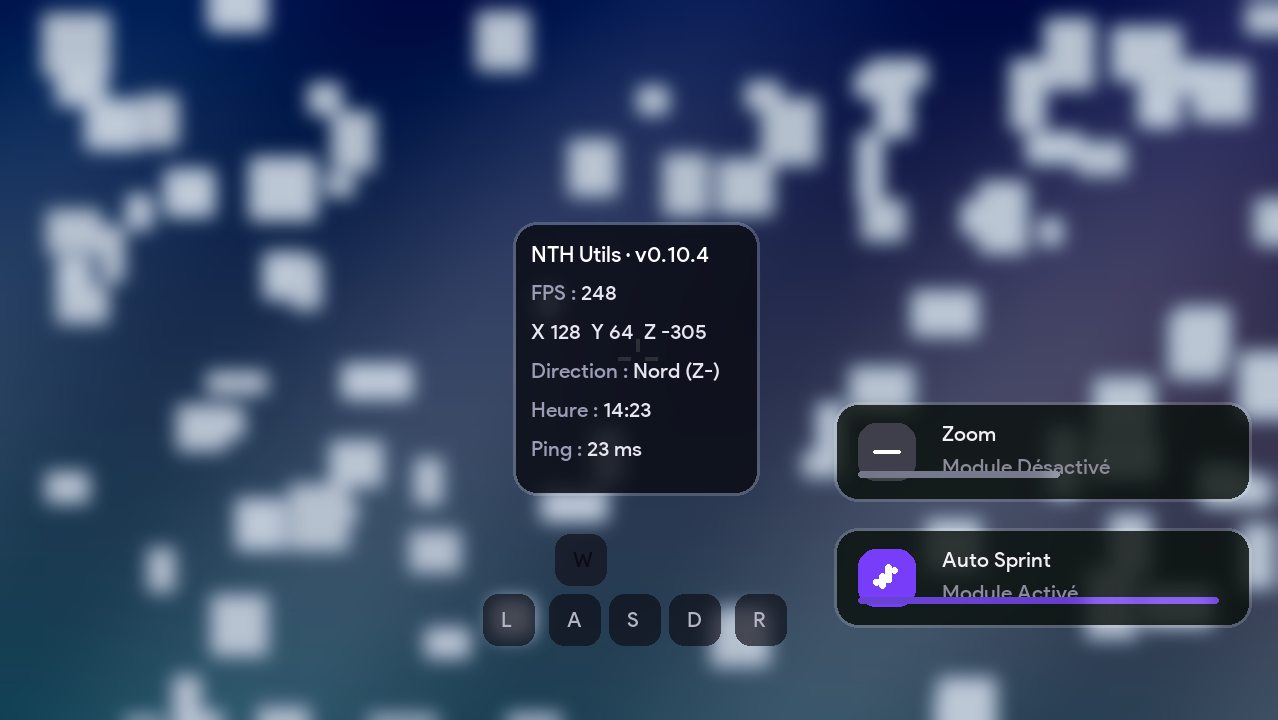
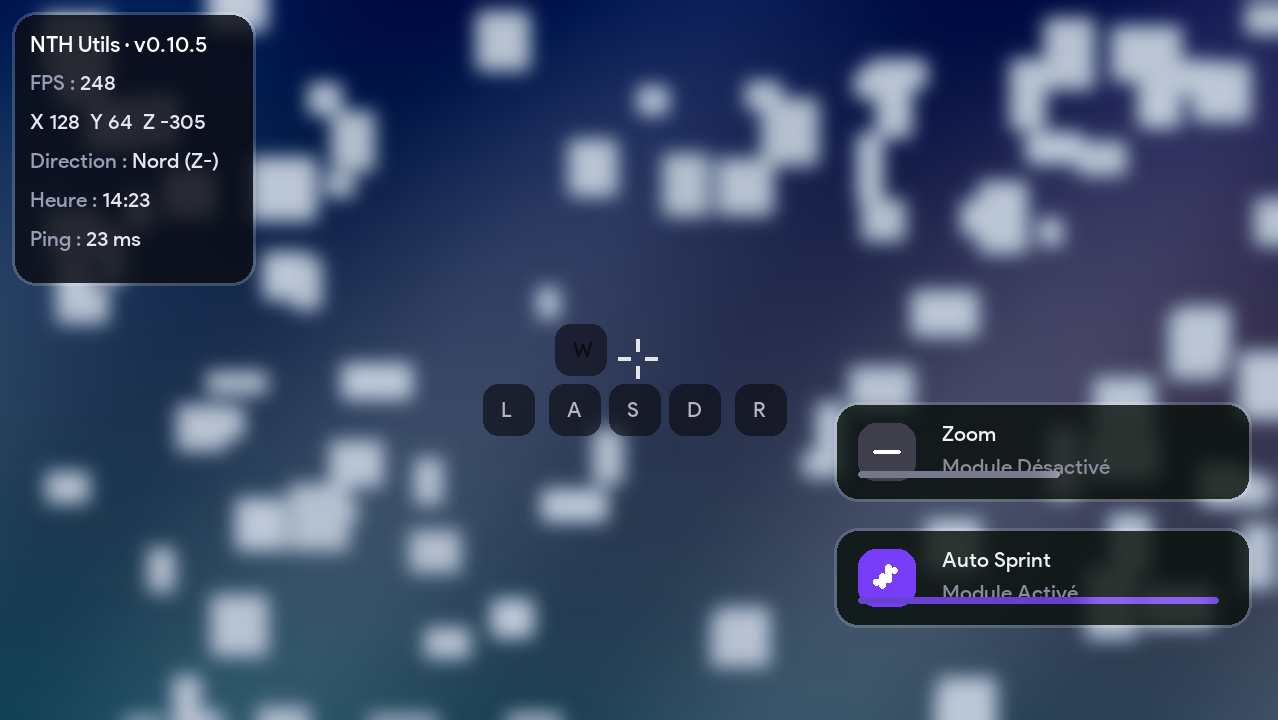
HUD : bloc d'infos (FPS/coords…) en haut à gauche, colonnes d'infos dessous, plus rien ne se superpose (crosshair/Keystrokes dégagés) ; capture hud.png à jour ; version 0.10.5

Changed region(s): [[0.3662, 0.3056, 0.6408, 0.7028], [0.0, 0.0, 0.2136, 0.3972], [0.3662, 0.7333, 0.6408, 0.9167]]

diff --git a/docs/index.html b/docs/index.html
@@ -274,7 +274,7 @@
       </figure>
       <figure style="margin:0;background:rgba(12,12,20,.72);border:1px solid rgba(0,255,200,.25);border-radius:14px;padding:10px">
         <img src="screenshots/hud.png" alt="HUD en jeu" loading="lazy" style="width:100%;border-radius:8px;display:block">
-        <figcaption style="padding:8px 4px 2px;font-size:13px;color:#aab">HUD en jeu — panneau d'infos centré avec dégradé personnalisable, Keystrokes et FPS boosté par l'Optimiseur</figcaption>
+        <figcaption style="padding:8px 4px 2px;font-size:13px;color:#aab">HUD en jeu — panneau d'infos en haut à gauche avec dégradé personnalisable, Keystrokes et toasts Module Activé/Désactivé — et FPS boosté par l'Optimiseur</figcaption>
       </figure>
       <figure style="margin:0;background:rgba(12,12,20,.72);border:1px solid rgba(122,60,255,.28);border-radius:14px;padding:10px">
         <img src="screenshots/palettes.png" alt="Palettes de thème" loading="lazy" style="width:100%;border-radius:8px;display:block">

diff --git a/fabric-26.1.2/src/main/java/dev/utilikit/client/ClientIntegrations.java b/fabric-26.1.2/src/main/java/dev/utilikit/client/ClientIntegrations.java
@@ -1105,8 +1105,8 @@ public final class ClientIntegrations {
         }
 
         if (!visibleMods.isEmpty()) {
-            int panelX1 = Math.max(4, scaledWidth / 2 + hudOffset[0] - (relW + 12) / 2);
-            int panelY1 = 6 + hudOffset[1];
+            int panelX1 = Math.max(4, 4 + hudOffset[0]);
+            int panelY1 = 6 + hudOffset[1] + hudInfoHeight();
             HudPaint.panel(graphics, panelX1 - 6, panelY1 - 4, panelX1 + relW + 6, panelY1 + relH + 6);
             for (int i = 0; i < visibleMods.size(); i++) {
                 InfoModule info = visibleMods.get(i);
@@ -1187,6 +1187,21 @@ public final class ClientIntegrations {
         }
     }
 
+
+
+    private static int hudInfoHeight() {
+        Module hudInfo = ModuleManager.get("hudinfo");
+        if (hudInfo == null || !hudInfo.enabled) {
+            return 0;
+        }
+        int lines = 0;
+        for (Setting setting : hudInfo.settings) {
+            if (setting instanceof Setting.Toggle toggle && toggle.value && !"background".equals(toggle.id)) {
+                lines++;
+            }
+        }
+        return lines * 12 + 4;
+    }
 
     private static class FovLockModule extends TickModule {
         private final Setting.Slider fov;

diff --git a/fabric-26.2/src/main/java/dev/utilikit/client/ClientIntegrations.java b/fabric-26.2/src/main/java/dev/utilikit/client/ClientIntegrations.java
@@ -1105,8 +1105,8 @@ public final class ClientIntegrations {
         }
 
         if (!visibleMods.isEmpty()) {
-            int panelX1 = Math.max(4, scaledWidth / 2 + hudOffset[0] - (relW + 12) / 2);
-            int panelY1 = 6 + hudOffset[1];
+            int panelX1 = Math.max(4, 4 + hudOffset[0]);
+            int panelY1 = 6 + hudOffset[1] + hudInfoHeight();
             HudPaint.panel(graphics, panelX1 - 6, panelY1 - 4, panelX1 + relW + 6, panelY1 + relH + 6);
             for (int i = 0; i < visibleMods.size(); i++) {
                 InfoModule info = visibleMods.get(i);
@@ -1187,6 +1187,21 @@ public final class ClientIntegrations {
         }
     }
 
+
+
+    private static int hudInfoHeight() {
+        Module hudInfo = ModuleManager.get("hudinfo");
+        if (hudInfo == null || !hudInfo.enabled) {
+            return 0;
+        }
+        int lines = 0;
+        for (Setting setting : hudInfo.settings) {
+            if (setting instanceof Setting.Toggle toggle && toggle.value && !"background".equals(toggle.id)) {
+                lines++;
+            }
+        }
+        return lines * 12 + 4;
+    }
 
     private static class FovLockModule extends TickModule {
         private final Setting.Slider fov;

diff --git a/fabric-26.3/src/main/java/dev/utilikit/client/ClientIntegrations.java b/fabric-26.3/src/main/java/dev/utilikit/client/ClientIntegrations.java
@@ -1105,8 +1105,8 @@ public final class ClientIntegrations {
         }
 
         if (!visibleMods.isEmpty()) {
-            int panelX1 = Math.max(4, scaledWidth / 2 + hudOffset[0] - (relW + 12) / 2);
-            int panelY1 = 6 + hudOffset[1];
+            int panelX1 = Math.max(4, 4 + hudOffset[0]);
+            int panelY1 = 6 + hudOffset[1] + hudInfoHeight();
             HudPaint.panel(graphics, panelX1 - 6, panelY1 - 4, panelX1 + relW + 6, panelY1 + relH + 6);
             for (int i = 0; i < visibleMods.size(); i++) {
                 InfoModule info = visibleMods.get(i);
@@ -1187,6 +1187,21 @@ public final class ClientIntegrations {
         }
     }
 
+
+
+    private static int hudInfoHeight() {
+        Module hudInfo = ModuleManager.get("hudinfo");
+        if (hudInfo == null || !hudInfo.enabled) {
+            return 0;
+        }
+        int lines = 0;
+        for (Setting setting : hudInfo.settings) {
+            if (setting instanceof Setting.Toggle toggle && toggle.value && !"background".equals(toggle.id)) {
+                lines++;
+            }
+        }
+        return lines * 12 + 4;
+    }
 
     private static class FovLockModule extends TickModule {
         private final Setting.Slider fov;

diff --git a/fabric-1.20.1/src/main/java/dev/utilikit/client/ClientIntegrations.java b/fabric-1.20.1/src/main/java/dev/utilikit/client/ClientIntegrations.java
@@ -940,8 +940,8 @@ public final class ClientIntegrations {
         }
 
         if (!visibleMods.isEmpty()) {
-            int panelX1 = Math.max(4, scaledWidth / 2 + hudOffset[0] - (relW + 12) / 2);
-            int panelY1 = 6 + hudOffset[1];
+            int panelX1 = Math.max(4, 4 + hudOffset[0]);
+            int panelY1 = 6 + hudOffset[1] + hudInfoHeight();
             HudPaint.panel(context, panelX1 - 6, panelY1 - 4, panelX1 + relW + 6, panelY1 + relH + 6);
             for (int i = 0; i < visibleMods.size(); i++) {
                 InfoModule info = visibleMods.get(i);
@@ -1023,6 +1023,21 @@ public final class ClientIntegrations {
         }
     }
 
+
+
+    private static int hudInfoHeight() {
+        Module hudInfo = ModuleManager.get("hudinfo");
+        if (hudInfo == null || !hudInfo.enabled) {
+            return 0;
+        }
+        int lines = 0;
+        for (Setting setting : hudInfo.settings) {
+            if (setting instanceof Setting.Toggle toggle && toggle.value && !"background".equals(toggle.id)) {
+                lines++;
+            }
+        }
+        return lines * 12 + 4;
+    }
 
     private static class FovLockModule extends TickModule {
         private final Setting.Slider fov;

diff --git a/fabric-1.20.4/src/main/java/dev/utilikit/client/ClientIntegrations.java b/fabric-1.20.4/src/main/java/dev/utilikit/client/ClientIntegrations.java
@@ -940,8 +940,8 @@ public final class ClientIntegrations {
         }
 
         if (!visibleMods.isEmpty()) {
-            int panelX1 = Math.max(4, scaledWidth / 2 + hudOffset[0] - (relW + 12) / 2);
-            int panelY1 = 6 + hudOffset[1];
+            int panelX1 = Math.max(4, 4 + hudOffset[0]);
+            int panelY1 = 6 + hudOffset[1] + hudInfoHeight();
             HudPaint.panel(context, panelX1 - 6, panelY1 - 4, panelX1 + relW + 6, panelY1 + relH + 6);
             for (int i = 0; i < visibleMods.size(); i++) {
                 InfoModule info = visibleMods.get(i);
@@ -1023,6 +1023,21 @@ public final class ClientIntegrations {
         }
     }
 
+
+
+    private static int hudInfoHeight() {
+        Module hudInfo = ModuleManager.get("hudinfo");
+        if (hudInfo == null || !hudInfo.enabled) {
+            return 0;
+        }
+        int lines = 0;
+        for (Setting setting : hudInfo.settings) {
+            if (setting instanceof Setting.Toggle toggle && toggle.value && !"background".equals(toggle.id)) {
+                lines++;
+            }
+        }
+        return lines * 12 + 4;
+    }
 
     private static class FovLockModule extends TickModule {
         private final Setting.Slider fov;

diff --git a/fabric-1.20.6/src/main/java/dev/utilikit/client/ClientIntegrations.java b/fabric-1.20.6/src/main/java/dev/utilikit/client/ClientIntegrations.java
@@ -940,8 +940,8 @@ public final class ClientIntegrations {
         }
 
         if (!visibleMods.isEmpty()) {
-            int panelX1 = Math.max(4, scaledWidth / 2 + hudOffset[0] - (relW + 12) / 2);
-            int panelY1 = 6 + hudOffset[1];
+            int panelX1 = Math.max(4, 4 + hudOffset[0]);
+            int panelY1 = 6 + hudOffset[1] + hudInfoHeight();
             HudPaint.panel(context, panelX1 - 6, panelY1 - 4, panelX1 + relW + 6, panelY1 + relH + 6);
             for (int i = 0; i < visibleMods.size(); i++) {
                 InfoModule info = visibleMods.get(i);
@@ -1023,6 +1023,21 @@ public final class ClientIntegrations {
         }
     }
 
+
+
+    private static int hudInfoHeight() {
+        Module hudInfo = ModuleManager.get("hudinfo");
+        if (hudInfo == null || !hudInfo.enabled) {
+            return 0;
+        }
+        int lines = 0;
+        for (Setting setting : hudInfo.settings) {
+            if (setting instanceof Setting.Toggle toggle && toggle.value && !"background".equals(toggle.id)) {
+                lines++;
+            }
+        }
+        return lines * 12 + 4;
+    }
 
     private static class FovLockModule extends TickModule {
         private final Setting.Slider fov;

diff --git a/fabric-1.21.1/src/main/java/dev/utilikit/client/ClientIntegrations.java b/fabric-1.21.1/src/main/java/dev/utilikit/client/ClientIntegrations.java
@@ -940,8 +940,8 @@ public final class ClientIntegrations {
         }
 
         if (!visibleMods.isEmpty()) {
-            int panelX1 = Math.max(4, scaledWidth / 2 + hudOffset[0] - (relW + 12) / 2);
-            int panelY1 = 6 + hudOffset[1];
+            int panelX1 = Math.max(4, 4 + hudOffset[0]);
+            int panelY1 = 6 + hudOffset[1] + hudInfoHeight();
             HudPaint.panel(context, panelX1 - 6, panelY1 - 4, panelX1 + relW + 6, panelY1 + relH + 6);
             for (int i = 0; i < visibleMods.size(); i++) {
                 InfoModule info = visibleMods.get(i);
@@ -1023,6 +1023,21 @@ public final class ClientIntegrations {
         }
     }
 
+
+
+    private static int hudInfoHeight() {
+        Module hudInfo = ModuleManager.get("hudinfo");
+        if (hudInfo == null || !hudInfo.enabled) {
+            return 0;
+        }
+        int lines = 0;
+        for (Setting setting : hudInfo.settings) {
+            if (setting instanceof Setting.Toggle toggle && toggle.value && !"background".equals(toggle.id)) {
+                lines++;
+            }
+        }
+        return lines * 12 + 4;
+    }
 
     private static class FovLockModule extends TickModule {
         private final Setting.Slider fov;

diff --git a/fabric-1.21.11/src/main/java/dev/utilikit/client/ClientIntegrations.java b/fabric-1.21.11/src/main/java/dev/utilikit/client/ClientIntegrations.java
@@ -940,8 +940,8 @@ public final class ClientIntegrations {
         }
 
         if (!visibleMods.isEmpty()) {
-            int panelX1 = Math.max(4, scaledWidth / 2 + hudOffset[0] - (relW + 12) / 2);
-            int panelY1 = 6 + hudOffset[1];
+            int panelX1 = Math.max(4, 4 + hudOffset[0]);
+            int panelY1 = 6 + hudOffset[1] + hudInfoHeight();
             HudPaint.panel(context, panelX1 - 6, panelY1 - 4, panelX1 + relW + 6, panelY1 + relH + 6);
             for (int i = 0; i < visibleMods.size(); i++) {
                 InfoModule info = visibleMods.get(i);
@@ -1023,6 +1023,21 @@ public final class ClientIntegrations {
         }
     }
 
+
+
+    private static int hudInfoHeight() {
+        Module hudInfo = ModuleManager.get("hudinfo");
+        if (hudInfo == null || !hudInfo.enabled) {
+            return 0;
+        }
+        int lines = 0;
+        for (Setting setting : hudInfo.settings) {
+            if (setting instanceof Setting.Toggle toggle && toggle.value && !"background".equals(toggle.id)) {
+                lines++;
+            }
+        }
+        return lines * 12 + 4;
+    }
 
     private static class FovLockModule extends TickModule {
         private final Setting.Slider fov;

diff --git a/fabric-1.21.5/src/main/java/dev/utilikit/client/ClientIntegrations.java b/fabric-1.21.5/src/main/java/dev/utilikit/client/ClientIntegrations.java
@@ -940,8 +940,8 @@ public final class ClientIntegrations {
         }
 
         if (!visibleMods.isEmpty()) {
-            int panelX1 = Math.max(4, scaledWidth / 2 + hudOffset[0] - (relW + 12) / 2);
-            int panelY1 = 6 + hudOffset[1];
+            int panelX1 = Math.max(4, 4 + hudOffset[0]);
+            int panelY1 = 6 + hudOffset[1] + hudInfoHeight();
             HudPaint.panel(context, panelX1 - 6, panelY1 - 4, panelX1 + relW + 6, panelY1 + relH + 6);
             for (int i = 0; i < visibleMods.size(); i++) {
                 InfoModule info = visibleMods.get(i);
@@ -1023,6 +1023,21 @@ public final class ClientIntegrations {
         }
     }
 
+
+
+    private static int hudInfoHeight() {
+        Module hudInfo = ModuleManager.get("hudinfo");
+        if (hudInfo == null || !hudInfo.enabled) {
+            return 0;
+        }
+        int lines = 0;
+        for (Setting setting : hudInfo.settings) {
+            if (setting instanceof Setting.Toggle toggle && toggle.value && !"background".equals(toggle.id)) {
+                lines++;
+            }
+        }
+        return lines * 12 + 4;
+    }
 
     private static class FovLockModule extends TickModule {
         private final Setting.Slider fov;

diff --git a/fabric-1.21.8/src/main/java/dev/utilikit/client/ClientIntegrations.java b/fabric-1.21.8/src/main/java/dev/utilikit/client/ClientIntegrations.java
@@ -940,8 +940,8 @@ public final class ClientIntegrations {
         }
 
         if (!visibleMods.isEmpty()) {
-            int panelX1 = Math.max(4, scaledWidth / 2 + hudOffset[0] - (relW + 12) / 2);
-            int panelY1 = 6 + hudOffset[1];
+            int panelX1 = Math.max(4, 4 + hudOffset[0]);
+            int panelY1 = 6 + hudOffset[1] + hudInfoHeight();
             HudPaint.panel(context, panelX1 - 6, panelY1 - 4, panelX1 + relW + 6, panelY1 + relH + 6);
             for (int i = 0; i < visibleMods.size(); i++) {
                 InfoModule info = visibleMods.get(i);
@@ -1023,6 +1023,21 @@ public final class ClientIntegrations {
         }
     }
 
+
+
+    private static int hudInfoHeight() {
+        Module hudInfo = ModuleManager.get("hudinfo");
+        if (hudInfo == null || !hudInfo.enabled) {
+            return 0;
+        }
+        int lines = 0;
+        for (Setting setting : hudInfo.settings) {
+            if (setting instanceof Setting.Toggle toggle && toggle.value && !"background".equals(toggle.id)) {
+                lines++;
+            }
+        }
+        return lines * 12 + 4;
+    }
 
     private static class FovLockModule extends TickModule {
         private final Setting.Slider fov;

diff --git a/fabric-1.20.1/src/main/java/dev/utilikit/client/modules/impl/HudInfoModule.java b/fabric-1.20.1/src/main/java/dev/utilikit/client/modules/impl/HudInfoModule.java
@@ -72,8 +72,8 @@ public class HudInfoModule extends Module {
             maxW = Math.max(maxW, client.textRenderer.getWidth(text));
         }
         int[] hudOffset = dev.utilikit.client.modules.extra.ExtraModules.hudOffset();
-        int x = scaledWidth / 2 - maxW / 2 + hudOffset[0];
-        int y = scaledHeight / 2 - (6 + lines.size() * lineHeight) / 2 + hudOffset[1];
+        int x = 4 + hudOffset[0];
+        int y = 4 + hudOffset[1];
         if (hud.background.value) {
             HudPaint.panel(context, x - 6, y - 4, x + maxW + 6, y + 2 + lines.size() * lineHeight);
         }
